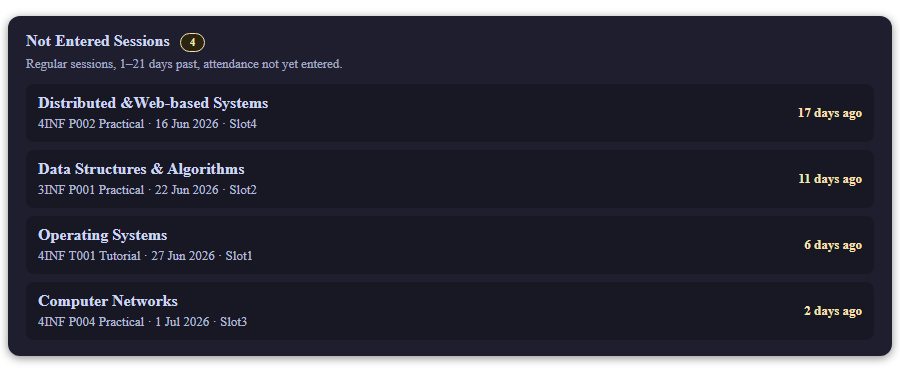
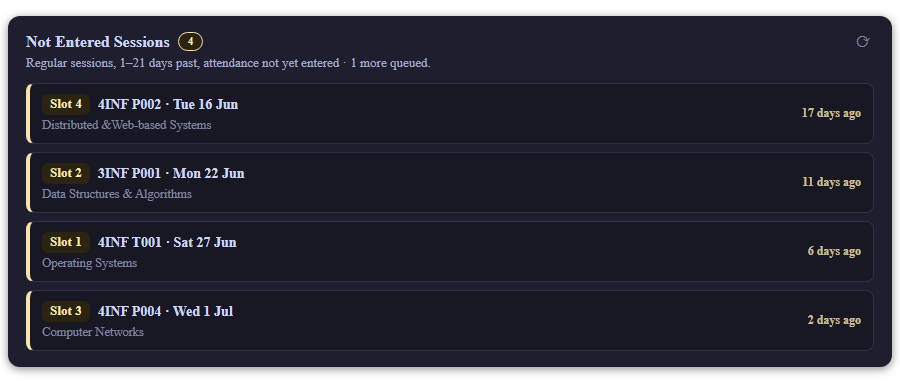
feat(unentered): redesign row layout, add backlog count + manual refresh
Row layout now leads with a slot chip and group+weekday+date (the part
that actually differs per row for single-course staff) instead of the
repeated course name; course name drops to a small secondary line.
Amber left-border accent matches the .gius-att-card/.gius-tl-today/
.gius-pr-next convention used by sibling Home widgets. Group codes
drop their redundant trailing type word (Practical/Tutorial/Lecture).

Sub-line now surfaces how many candidates are still unresolved past
the daily check cap ("N more queued"), and a refresh icon lets staff
force an immediate recheck (bypassing the same-day gate, still never
rechecking already-entered sessions) instead of waiting for the next
day's pass.

Ported identically into the standalone script.

diff --git a/scripts/GIU SuperScript.js b/scripts/GIU SuperScript.js
@@ -9591,8 +9591,11 @@
             // Which sessionIds get a Phase-2 postback this load: never-checked
             // first (oldest date first), then stale unentered/unknown rechecks
             // (oldest first), capped at MAX_CHECKS_PER_LOAD. "entered" is final —
-            // never rechecked. Leftovers stay queued for a future load.
-            function selectChecksToRun(cache, todayStr) {
+            // never rechecked, force or not. Leftovers stay queued for a future
+            // load. force=true (manual refresh) ignores the same-day gate so an
+            // outstanding candidate can be rechecked immediately instead of
+            // waiting until tomorrow.
+            function selectChecksToRun(cache, todayStr, force = false) {
                 const entries = Object.entries(cache.candidates);
                 const byDate = (a, b) => (a[1].date < b[1].date ? -1 : a[1].date > b[1].date ? 1 : 0);
                 const neverChecked = entries
@@ -9601,7 +9604,7 @@
                 const staleRecheck = entries
                     .filter(([, c]) => c.lastCheckedISO &&
                         (c.status === 'unentered' || c.status === 'unknown') &&
-                        !isSameLocalDay(c.lastCheckedISO, todayStr))
+                        (force || !isSameLocalDay(c.lastCheckedISO, todayStr)))
                     .sort(byDate);
                 return neverChecked.concat(staleRecheck)
                     .slice(0, MAX_CHECKS_PER_LOAD)
@@ -9661,7 +9664,14 @@
             function fmtDate(ymd) {
                 const [y, m, d] = ymd.split('-').map(Number);
                 return new Date(y, m - 1, d).toLocaleDateString('en-GB',
-                    { day: 'numeric', month: 'short', year: 'numeric' });
+                    { weekday: 'short', day: 'numeric', month: 'short' });
+            }
+
+            // Display-only: drop the trailing session-type word portal group
+            // codes always carry ("4INF P002 Practical" -> "4INF P002") — the
+            // type is redundant with the slot chip and just adds noise.
+            function stripGroupType(groupCode) {
+                return String(groupCode).replace(/\s+(Practical|Tutorial|Lecture)$/i, '');
             }
 
             function injectStyles() {
@@ -9670,25 +9680,40 @@
                         margin:28px 0;border-radius:12px;padding:16px 18px;
                         background:#ffffff;color:#1e1e2e;box-shadow:0 2px 10px rgba(0,0,0,.12);}
                     .gius-us-widget *{box-sizing:border-box;}
-                    .gius-us-head{font-weight:700;font-size:16px;margin-bottom:4px;}
+                    .gius-us-head{font-weight:700;font-size:16px;margin-bottom:4px;
+                        display:flex;align-items:center;gap:8px;}
                     .gius-us-badge{display:inline-block;vertical-align:middle;line-height:1;font-size:11px;font-weight:700;
-                        padding:3px 9px;border-radius:999px;margin-left:6px;white-space:nowrap;
+                        padding:3px 9px;border-radius:999px;white-space:nowrap;
                         background:#fff8e1;color:#8a6500;border:1px solid #ffc107;}
+                    .gius-us-refresh{margin-left:auto;border:none;background:transparent;cursor:pointer;
+                        font-size:15px;line-height:1;color:inherit;opacity:.55;padding:2px 4px;}
+                    .gius-us-refresh:hover{opacity:1;}
+                    .gius-us-refresh:disabled{opacity:.3;cursor:wait;}
+                    .gius-us-refresh.gius-us-spinning{animation:gius-us-spin .8s linear infinite;}
+                    @keyframes gius-us-spin{from{transform:rotate(0deg);}to{transform:rotate(360deg);}}
                     .gius-us-sub{font-size:13px;opacity:.75;margin-bottom:12px;}
                     .gius-us-list{display:flex;flex-direction:column;gap:8px;}
                     .gius-us-row{display:flex;align-items:center;justify-content:space-between;gap:12px;
-                        background:#f5f5fa;border-radius:8px;padding:10px 12px;
-                        color:inherit;text-decoration:none;}
+                        background:#f5f5fa;border:1px solid #e9ecef;border-left:4px solid #ffc107;
+                        border-radius:8px;padding:10px 12px;color:inherit;text-decoration:none;}
                     .gius-us-row:hover{background:#eceef5;}
-                    .gius-us-title{font-weight:600;margin-bottom:4px;}
-                    .gius-us-meta{font-size:13px;opacity:.85;}
-                    .gius-us-ago{font-size:13px;font-weight:700;color:#8a6500;white-space:nowrap;}
+                    .gius-us-primary{display:flex;align-items:center;gap:8px;margin-bottom:3px;}
+                    .gius-us-slot{display:inline-block;font-size:12.5px;font-weight:800;letter-spacing:.02em;
+                        color:#7a5b00;background:#fff3cd;border-radius:6px;padding:3px 8px;flex:0 0 auto;}
+                    .gius-us-when{font-size:14px;font-weight:700;color:#272c33;
+                        white-space:nowrap;overflow:hidden;text-overflow:ellipsis;}
+                    .gius-us-course{font-size:12.5px;opacity:.72;color:#3a3f47;
+                        white-space:nowrap;overflow:hidden;text-overflow:ellipsis;}
+                    .gius-us-ago{font-size:12px;font-weight:700;color:#8a6500;white-space:nowrap;opacity:.8;flex-shrink:0;}
 
                     /* Dark mode — reacts live to the GIU Theme script's html.gius-dark class. */
                     html.gius-dark .gius-us-widget{background:#1e1e2e;color:#cdd6f4;box-shadow:0 2px 10px rgba(0,0,0,.45);}
                     html.gius-dark .gius-us-badge{background:#2a2410;color:#f9e2af;border-color:#f9e2af;}
-                    html.gius-dark .gius-us-row{background:#181825;}
+                    html.gius-dark .gius-us-row{background:#181825;border-color:#313244;border-left-color:#f9e2af;}
                     html.gius-dark .gius-us-row:hover{background:#232334;}
+                    html.gius-dark .gius-us-slot{color:#f9e2af;background:#2a2410;}
+                    html.gius-dark .gius-us-when{color:#cdd6f4;}
+                    html.gius-dark .gius-us-course{color:#a6adc8;}
                     html.gius-dark .gius-us-ago{color:#f9e2af;}`);
             }
 
@@ -9728,6 +9753,12 @@
                 return host;
             }
 
+            // True while a manual (force) refresh triggered via the ⟳ button is
+            // in flight — read by render() on every rebuild so the button stays
+            // disabled/spinning through boot()'s own internal re-renders, not
+            // just the one that fires immediately on click.
+            let refreshing = false;
+
             function render(cache) {
                 const now = new Date();
                 const rows = Object.values(cache.candidates)
@@ -9739,32 +9770,63 @@
                     if (existing) existing.remove();
                     return;
                 }
+                const queued = Object.values(cache.candidates)
+                    .filter(c => c.status === 'unknown').length;
+                const queuedText = !queued ? '' :
+                    ` · ${queued === 1 ? '1 more queued' : queued + ' more queued'}`;
                 injectStyles();
                 const host = ensureHost();
                 host.innerHTML = `
                     <div class="gius-us-head">Not Entered Sessions
-                        <span class="gius-us-badge">${rows.length}</span></div>
-                    <div class="gius-us-sub">Regular sessions, 1–21 days past, attendance not yet entered.</div>
+                        <span class="gius-us-badge">${rows.length}</span>
+                        <button type="button" id="gius-us-refresh-btn"
+                            class="gius-us-refresh${refreshing ? ' gius-us-spinning' : ''}"
+                            title="Recheck now"${refreshing ? ' disabled' : ''}>⟳</button></div>
+                    <div class="gius-us-sub">Regular sessions, 1–21 days past, attendance not yet entered${queuedText}.</div>
                     <div class="gius-us-list">
                         ${rows.map(c => `
                             <a class="gius-us-row" href="${SOURCE_URL}" target="_blank" rel="noopener">
-                                <div class="gius-us-row-main">
-                                    <div class="gius-us-title">${esc(c.courseName)}</div>
-                                    <div class="gius-us-meta">${esc(c.groupCode)} · ${esc(fmtDate(c.date))} · Slot${esc(c.slot)}</div>
+                                <div class="gius-us-main">
+                                    <div class="gius-us-primary">
+                                        <span class="gius-us-slot">Slot ${esc(c.slot)}</span>
+                                        <span class="gius-us-when">${esc(stripGroupType(c.groupCode))} · ${esc(fmtDate(c.date))}</span>
+                                    </div>
+                                    <div class="gius-us-course">${esc(c.courseName)}</div>
                                 </div>
                                 <div class="gius-us-ago">${daysAgoOf(c.date, now)} days ago</div>
                             </a>`).join('')}
                     </div>`;
+                const refreshBtn = host.querySelector('#gius-us-refresh-btn');
+                if (refreshBtn) refreshBtn.addEventListener('click', triggerRefresh);
+            }
+
+            // Manual refresh: repaint immediately so the spinner shows without
+            // waiting on the network, force a full recheck (bypassing the
+            // same-day gate), then repaint again once settled either way.
+            async function triggerRefresh() {
+                if (refreshing) return;
+                refreshing = true;
+                render(loadCache());
+                try {
+                    await boot({ force: true });
+                } finally {
+                    refreshing = false;
+                    render(loadCache());
+                }
             }
 
             // ── Boot ──────────────────────────────────────────────────────────
-            async function boot() {
+            // opts.force (manual refresh, see triggerRefresh above) always
+            // re-enumerates and ignores the same-day recheck gate, but never
+            // touches the "entered is final" rule — that stays true either way.
+            async function boot(opts = {}) {
+                const force = !!opts.force;
                 const todayStr = localDateStr();
                 let cache = loadCache();
                 render(cache); // paint whatever was cached before touching the network
 
-                let checkIds = selectChecksToRun(cache, todayStr);
-                const needEnumeration = !isSameLocalDay(cache.lastEnumeratedISO, todayStr);
+                let checkIds = selectChecksToRun(cache, todayStr, force);
+                const needEnumeration = force || !isSameLocalDay(cache.lastEnumeratedISO, todayStr);
                 if (!needEnumeration && !checkIds.length) return; // nothing to do today
 
                 // One GET serves both phases: enumeration (when stale) and the
@@ -9783,7 +9845,7 @@
                     const fresh = filterCandidates(parseSessionOptions(doc));
                     cache = mergeCandidates(cache, fresh, new Date().toISOString());
                     saveCache(cache);
-                    checkIds = selectChecksToRun(cache, todayStr);
+                    checkIds = selectChecksToRun(cache, todayStr, force);
                     render(cache);
                 }
 
@@ -9807,7 +9869,7 @@
                 extractFormState, doPostback, fetchSourcePage, extractGroupValue,
                 loadCache, saveCache, mergeCandidates, selectChecksToRun,
                 readAttendanceStatus, runChecks,
-                esc, fmtDate, injectStyles, ensureHost, render, boot };
+                esc, fmtDate, stripGroupType, injectStyles, ensureHost, render, boot, triggerRefresh };
 
             // Boot as soon as the Home grid anchor exists (same trigger as the
             // other Home widgets); the guard lets Playwright drive boot() by hand.

diff --git a/scripts/individual/GIU Not Entered Sessions.js b/scripts/individual/GIU Not Entered Sessions.js
@@ -190,8 +190,11 @@
     // Which sessionIds get a Phase-2 postback this load: never-checked
     // first (oldest date first), then stale unentered/unknown rechecks
     // (oldest first), capped at MAX_CHECKS_PER_LOAD. "entered" is final —
-    // never rechecked. Leftovers stay queued for a future load.
-    function selectChecksToRun(cache, todayStr) {
+    // never rechecked, force or not. Leftovers stay queued for a future
+    // load. force=true (manual refresh) ignores the same-day gate so an
+    // outstanding candidate can be rechecked immediately instead of
+    // waiting until tomorrow.
+    function selectChecksToRun(cache, todayStr, force = false) {
         const entries = Object.entries(cache.candidates);
         const byDate = (a, b) => (a[1].date < b[1].date ? -1 : a[1].date > b[1].date ? 1 : 0);
         const neverChecked = entries
@@ -200,7 +203,7 @@
         const staleRecheck = entries
             .filter(([, c]) => c.lastCheckedISO &&
                 (c.status === 'unentered' || c.status === 'unknown') &&
-                !isSameLocalDay(c.lastCheckedISO, todayStr))
+                (force || !isSameLocalDay(c.lastCheckedISO, todayStr)))
             .sort(byDate);
         return neverChecked.concat(staleRecheck)
             .slice(0, MAX_CHECKS_PER_LOAD)
@@ -260,7 +263,14 @@
     function fmtDate(ymd) {
         const [y, m, d] = ymd.split('-').map(Number);
         return new Date(y, m - 1, d).toLocaleDateString('en-GB',
-            { day: 'numeric', month: 'short', year: 'numeric' });
+            { weekday: 'short', day: 'numeric', month: 'short' });
+    }
+
+    // Display-only: drop the trailing session-type word portal group
+    // codes always carry ("4INF P002 Practical" -> "4INF P002") — the
+    // type is redundant with the slot chip and just adds noise.
+    function stripGroupType(groupCode) {
+        return String(groupCode).replace(/\s+(Practical|Tutorial|Lecture)$/i, '');
     }
 
     function injectStyles() {
@@ -270,25 +280,40 @@
                 margin:28px 0;border-radius:12px;padding:16px 18px;
                 background:#ffffff;color:#1e1e2e;box-shadow:0 2px 10px rgba(0,0,0,.12);}
             .gius-us-widget *{box-sizing:border-box;}
-            .gius-us-head{font-weight:700;font-size:16px;margin-bottom:4px;}
+            .gius-us-head{font-weight:700;font-size:16px;margin-bottom:4px;
+                display:flex;align-items:center;gap:8px;}
             .gius-us-badge{display:inline-block;vertical-align:middle;line-height:1;font-size:11px;font-weight:700;
-                padding:3px 9px;border-radius:999px;margin-left:6px;white-space:nowrap;
+                padding:3px 9px;border-radius:999px;white-space:nowrap;
                 background:#fff8e1;color:#8a6500;border:1px solid #ffc107;}
+            .gius-us-refresh{margin-left:auto;border:none;background:transparent;cursor:pointer;
+                font-size:15px;line-height:1;color:inherit;opacity:.55;padding:2px 4px;}
+            .gius-us-refresh:hover{opacity:1;}
+            .gius-us-refresh:disabled{opacity:.3;cursor:wait;}
+            .gius-us-refresh.gius-us-spinning{animation:gius-us-spin .8s linear infinite;}
+            @keyframes gius-us-spin{from{transform:rotate(0deg);}to{transform:rotate(360deg);}}
             .gius-us-sub{font-size:13px;opacity:.75;margin-bottom:12px;}
             .gius-us-list{display:flex;flex-direction:column;gap:8px;}
             .gius-us-row{display:flex;align-items:center;justify-content:space-between;gap:12px;
-                background:#f5f5fa;border-radius:8px;padding:10px 12px;
-                color:inherit;text-decoration:none;}
+                background:#f5f5fa;border:1px solid #e9ecef;border-left:4px solid #ffc107;
+                border-radius:8px;padding:10px 12px;color:inherit;text-decoration:none;}
             .gius-us-row:hover{background:#eceef5;}
-            .gius-us-title{font-weight:600;margin-bottom:4px;}
-            .gius-us-meta{font-size:13px;opacity:.85;}
-            .gius-us-ago{font-size:13px;font-weight:700;color:#8a6500;white-space:nowrap;}
+            .gius-us-primary{display:flex;align-items:center;gap:8px;margin-bottom:3px;}
+            .gius-us-slot{display:inline-block;font-size:12.5px;font-weight:800;letter-spacing:.02em;
+                color:#7a5b00;background:#fff3cd;border-radius:6px;padding:3px 8px;flex:0 0 auto;}
+            .gius-us-when{font-size:14px;font-weight:700;color:#272c33;
+                white-space:nowrap;overflow:hidden;text-overflow:ellipsis;}
+            .gius-us-course{font-size:12.5px;opacity:.72;color:#3a3f47;
+                white-space:nowrap;overflow:hidden;text-overflow:ellipsis;}
+            .gius-us-ago{font-size:12px;font-weight:700;color:#8a6500;white-space:nowrap;opacity:.8;flex-shrink:0;}
 
             /* Dark mode — reacts live to the GIU Theme script's html.gius-dark class. */
             html.gius-dark .gius-us-widget{background:#1e1e2e;color:#cdd6f4;box-shadow:0 2px 10px rgba(0,0,0,.45);}
             html.gius-dark .gius-us-badge{background:#2a2410;color:#f9e2af;border-color:#f9e2af;}
-            html.gius-dark .gius-us-row{background:#181825;}
+            html.gius-dark .gius-us-row{background:#181825;border-color:#313244;border-left-color:#f9e2af;}
             html.gius-dark .gius-us-row:hover{background:#232334;}
+            html.gius-dark .gius-us-slot{color:#f9e2af;background:#2a2410;}
+            html.gius-dark .gius-us-when{color:#cdd6f4;}
+            html.gius-dark .gius-us-course{color:#a6adc8;}
             html.gius-dark .gius-us-ago{color:#f9e2af;}`;
         const style = document.createElement('style');
         style.id = 'gius-us-style';
@@ -332,6 +357,12 @@
         return host;
     }
 
+    // True while a manual (force) refresh triggered via the ⟳ button is
+    // in flight — read by render() on every rebuild so the button stays
+    // disabled/spinning through boot()'s own internal re-renders, not
+    // just the one that fires immediately on click.
+    let refreshing = false;
+
     function render(cache) {
         const now = new Date();
         const rows = Object.values(cache.candidates)
@@ -343,32 +374,63 @@
             if (existing) existing.remove();
             return;
         }
+        const queued = Object.values(cache.candidates)
+            .filter(c => c.status === 'unknown').length;
+        const queuedText = !queued ? '' :
+            ` · ${queued === 1 ? '1 more queued' : queued + ' more queued'}`;
         injectStyles();
         const host = ensureHost();
         host.innerHTML = `
             <div class="gius-us-head">Not Entered Sessions
-                <span class="gius-us-badge">${rows.length}</span></div>
-            <div class="gius-us-sub">Regular sessions, 1–21 days past, attendance not yet entered.</div>
+                <span class="gius-us-badge">${rows.length}</span>
+                <button type="button" id="gius-us-refresh-btn"
+                    class="gius-us-refresh${refreshing ? ' gius-us-spinning' : ''}"
+                    title="Recheck now"${refreshing ? ' disabled' : ''}>⟳</button></div>
+            <div class="gius-us-sub">Regular sessions, 1–21 days past, attendance not yet entered${queuedText}.</div>
             <div class="gius-us-list">
                 ${rows.map(c => `
                     <a class="gius-us-row" href="${SOURCE_URL}" target="_blank" rel="noopener">
-                        <div class="gius-us-row-main">
-                            <div class="gius-us-title">${esc(c.courseName)}</div>
-                            <div class="gius-us-meta">${esc(c.groupCode)} · ${esc(fmtDate(c.date))} · Slot${esc(c.slot)}</div>
+                        <div class="gius-us-main">
+                            <div class="gius-us-primary">
+                                <span class="gius-us-slot">Slot ${esc(c.slot)}</span>
+                                <span class="gius-us-when">${esc(stripGroupType(c.groupCode))} · ${esc(fmtDate(c.date))}</span>
+                            </div>
+                            <div class="gius-us-course">${esc(c.courseName)}</div>
                         </div>
                         <div class="gius-us-ago">${daysAgoOf(c.date, now)} days ago</div>
                     </a>`).join('')}
             </div>`;
+        const refreshBtn = host.querySelector('#gius-us-refresh-btn');
+        if (refreshBtn) refreshBtn.addEventListener('click', triggerRefresh);
+    }
+
+    // Manual refresh: repaint immediately so the spinner shows without
+    // waiting on the network, force a full recheck (bypassing the
+    // same-day gate), then repaint again once settled either way.
+    async function triggerRefresh() {
+        if (refreshing) return;
+        refreshing = true;
+        render(loadCache());
+        try {
+            await boot({ force: true });
+        } finally {
+            refreshing = false;
+            render(loadCache());
+        }
     }
 
     // ── Boot ──────────────────────────────────────────────────────────
-    async function boot() {
+    // opts.force (manual refresh, see triggerRefresh above) always
+    // re-enumerates and ignores the same-day recheck gate, but never
+    // touches the "entered is final" rule — that stays true either way.
+    async function boot(opts = {}) {
+        const force = !!opts.force;
         const todayStr = localDateStr();
         let cache = loadCache();
         render(cache); // paint whatever was cached before touching the network
 
-        let checkIds = selectChecksToRun(cache, todayStr);
-        const needEnumeration = !isSameLocalDay(cache.lastEnumeratedISO, todayStr);
+        let checkIds = selectChecksToRun(cache, todayStr, force);
+        const needEnumeration = force || !isSameLocalDay(cache.lastEnumeratedISO, todayStr);
         if (!needEnumeration && !checkIds.length) return; // nothing to do today
 
         // One GET serves both phases: enumeration (when stale) and the
@@ -387,7 +449,7 @@
             const fresh = filterCandidates(parseSessionOptions(doc));
             cache = mergeCandidates(cache, fresh, new Date().toISOString());
             saveCache(cache);
-            checkIds = selectChecksToRun(cache, todayStr);
+            checkIds = selectChecksToRun(cache, todayStr, force);
             render(cache);
         }
 
@@ -413,5 +475,5 @@
         extractFormState, doPostback, fetchSourcePage, extractGroupValue,
         loadCache, saveCache, mergeCandidates, selectChecksToRun,
         readAttendanceStatus, runChecks,
-        esc, fmtDate, injectStyles, ensureHost, render, boot };
+        esc, fmtDate, stripGroupType, injectStyles, ensureHost, render, boot, triggerRefresh };
 })();
